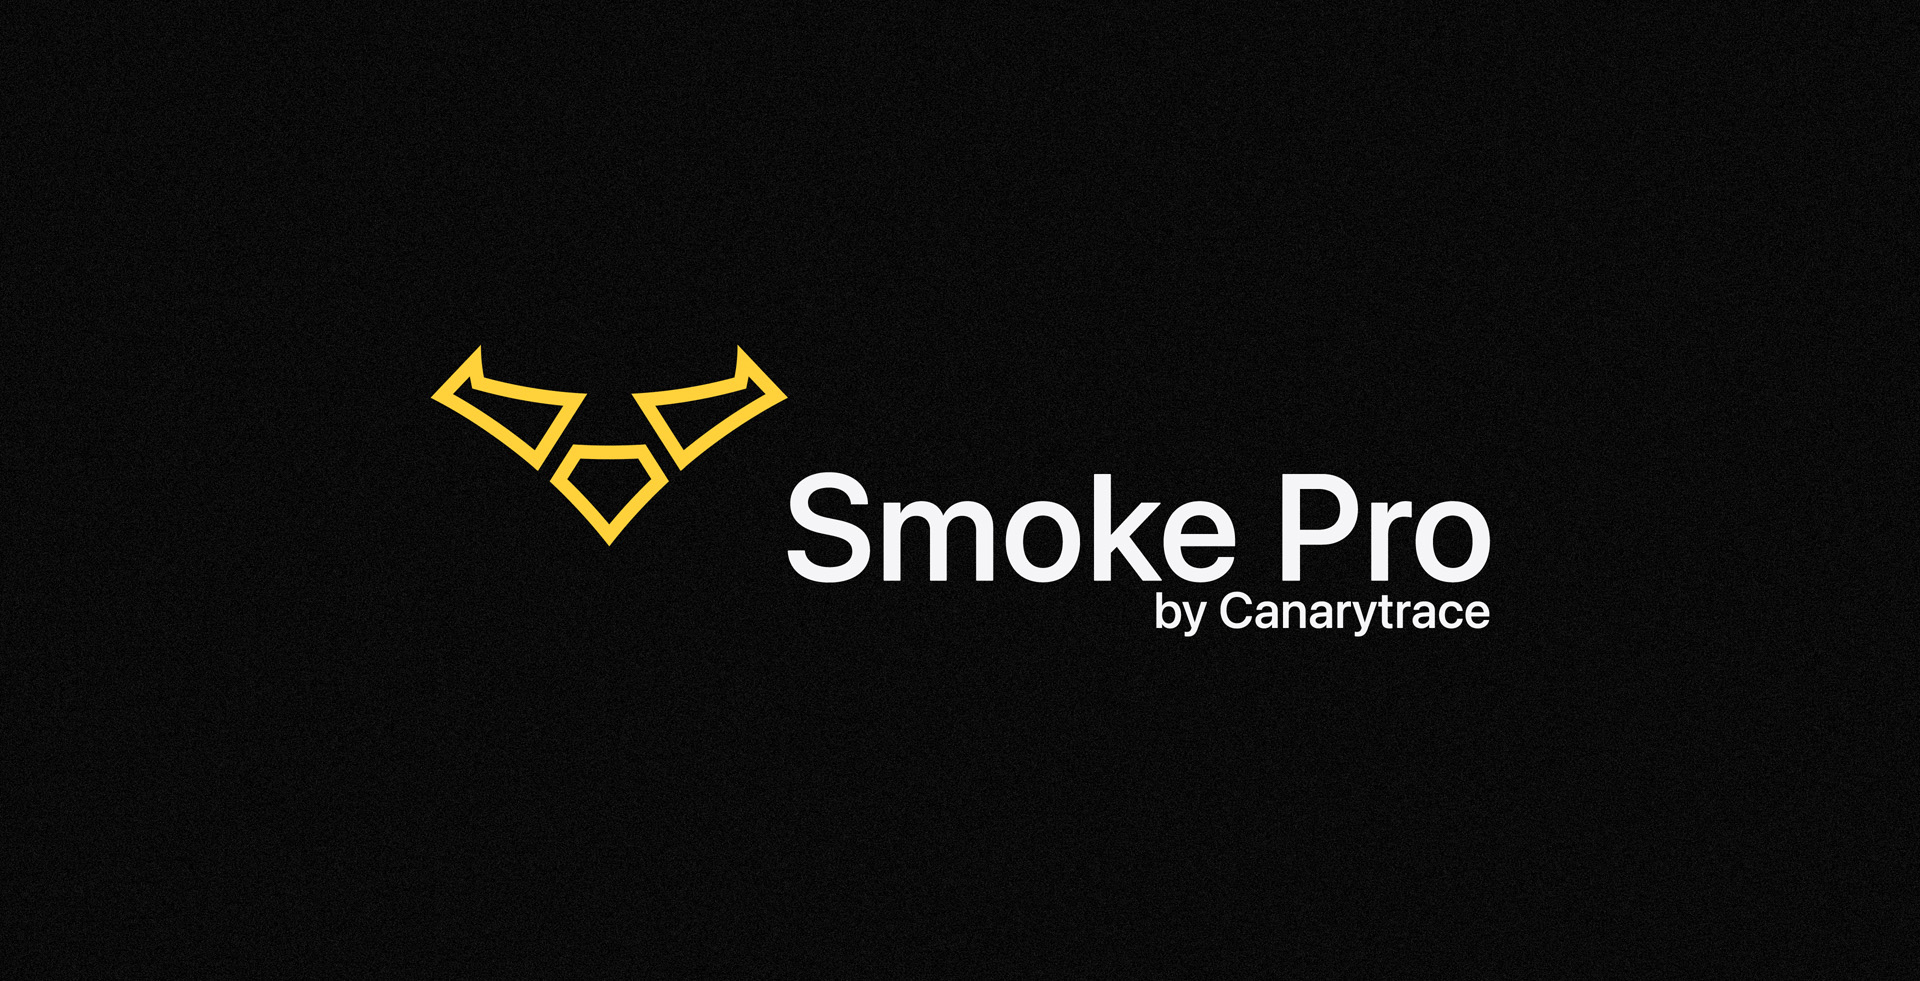
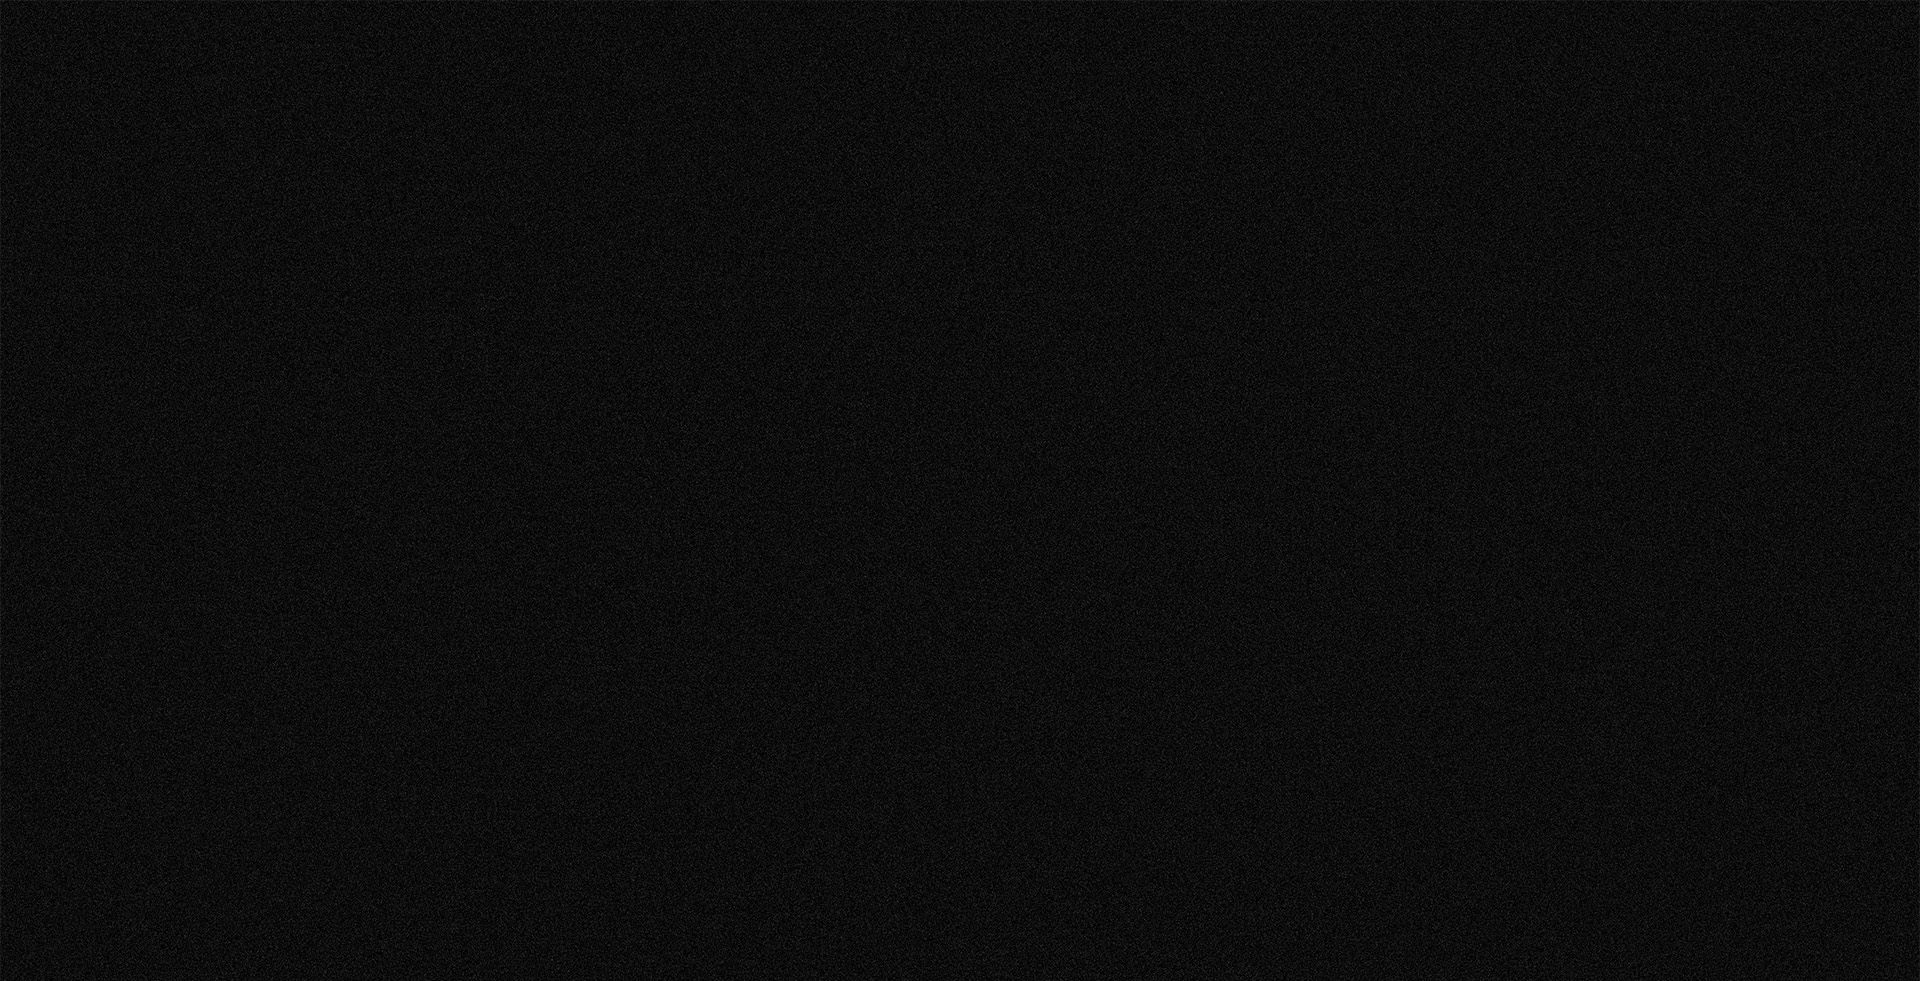
rozpracovano

Changed region(s): [[0.4062, 0.4587, 0.7812, 0.6422], [0.2188, 0.367, 0.4062, 0.5505]]

diff --git a/index.html b/index.html
@@ -20,7 +20,7 @@
 
 
     <link rel="canonical" href="http://teststack.cz/">
-    <title>TEST STACK Konference 2020</title>
+    <title>Canarytrace</title>
     <meta name="description" content="Nezávislá test automation konference.">
     <meta name="keywords" content="">
     <meta name="robots" content="index, nofollow">
@@ -110,53 +110,7 @@
             <div class="spacer medium"></div>
           </div>
         </div>
-        <div class="row">
-          <div class="col-xs-6 col-menu">
-            <h2 class="headline bottom-line left">Eventy</h2>
-            <ul class="menu-list">
-              <li><a target="_blank" href="./2020-duben/index.html">Dubnová konference 2020</a></li>
-              <li><a target="_blank" href="https://www.meetup.com/ProfessionalTesting/">Další testerské akce</a></li>
-            </ul>
-          </div>
-          <div class="col-xs-6 col-menu">
-            <h2 class="headline bottom-line left">Kontakt</h2>
-
-            <p>
-              Radim Daniel Pánek<br>
-              <strong>SDET & Performance Tester</strong><br>
-              <a href="mailto:rdpanek@canarytrace.com">rdpanek@canarytrace.com</a><br>
-              <br>
-              <span class="s">&nbsp;&nbsp;</span>
-              <a target="_blank" href="https://twitter.com/RDPanek">
-                <amp-img alt="Twitter"
-                  src="img/twitter_b.png"
-                  width="34"
-                  height="34"
-                  layout="fixed">
-                </amp-img>
-              </a>
-              <span class="s">&nbsp;&nbsp;</span>
-              <a target="_blank" href="https://www.youtube.com/c/teststack">
-                <amp-img alt="Youtube"
-                  src="img/youtube_b.png"
-                  width="34"
-                  height="34"
-                  layout="fixed">
-                </amp-img>
-              </a>
-              <span class="s">&nbsp;&nbsp;</span>
-              <a target="_blank" href="https://www.instagram.com/rdpanek/">
-                <amp-img alt="Instagram"
-                  src="img/instagram_b.png"
-                  width="34"
-                  height="34"
-                  layout="fixed">
-                </amp-img>
-              </a>
-
-            </p>
-          </div>
-        </div>
+        
       </div>
     </amp-sidebar>
     <amp-analytics type="gtag" data-credentials="include">
@@ -182,28 +136,18 @@
         }
       </script>
     </amp-analytics>
-    <header class="container-fluid  header">
-      <div class="container">
-        <div class="row">
-          <div class="col-xs-6">
-
-          </div>
-          <div class="col-xs-6">
-              <button class="hamburger" on='tap:main-menu.toggle'><span></span><span></span><span></span></button>
-          </div>
-        </div>
-        <div class="row middle-xs">
+    <header class="container-fluid header">
+        <div class="row center-xs middle-xs">
           <div class="col-xs-12">
-
+            <amp-img tabindex="0" src="img/smokeProLogo.png" width="700" height="193"></amp-img>
           </div>
         </div>
-      </div>
       <svg xmlns="http://www.w3.org/2000/svg" class="scroller" viewBox="0 0 50 80">
         <rect width="50" height="80" fill="#202530" class="scroller-base" opacity=".3" rx="25" ry="25"/>
         <rect width="20" height="30" x="15" y="14" fill="#fff" class="scroller-wheel" opacity=".3" rx="10" ry="10"/>
       </svg>
     </header>
-    <div class="fluid-container section blue">
+    <div class="fluid-container section">
       <div class="container screen" id="osnova-skoleni">
         <div class="row">
           <div class="col-xs-12">
